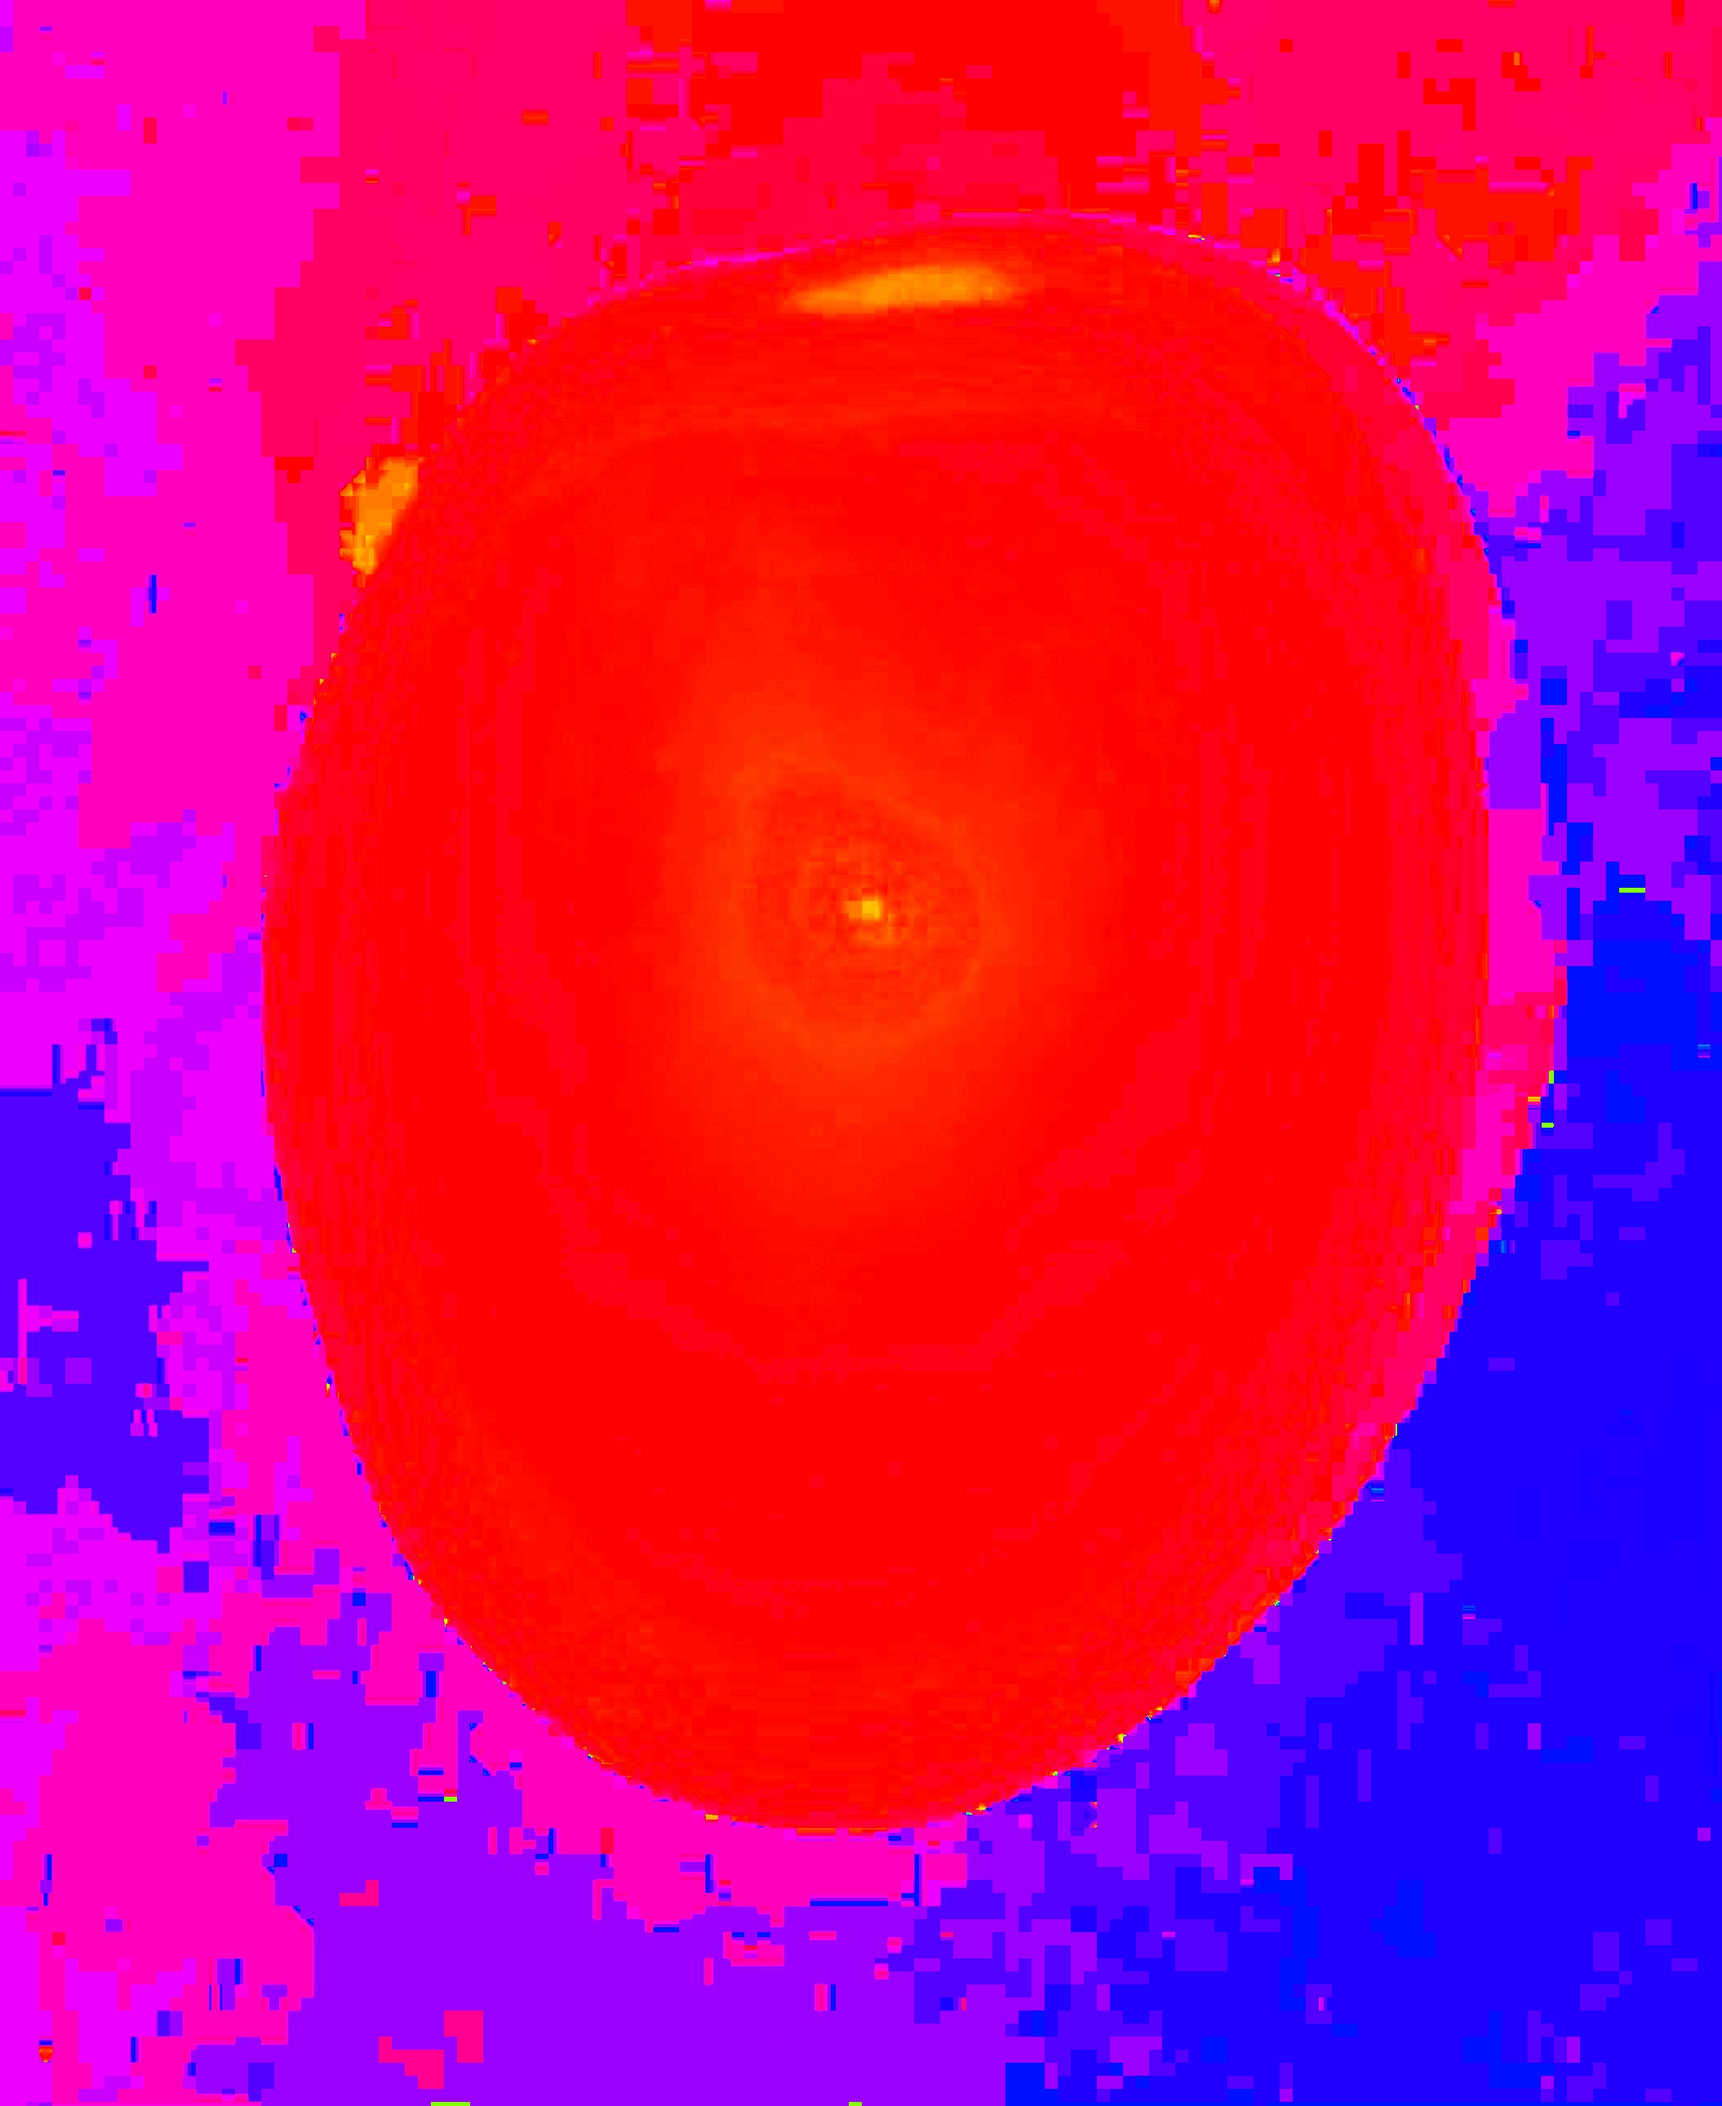
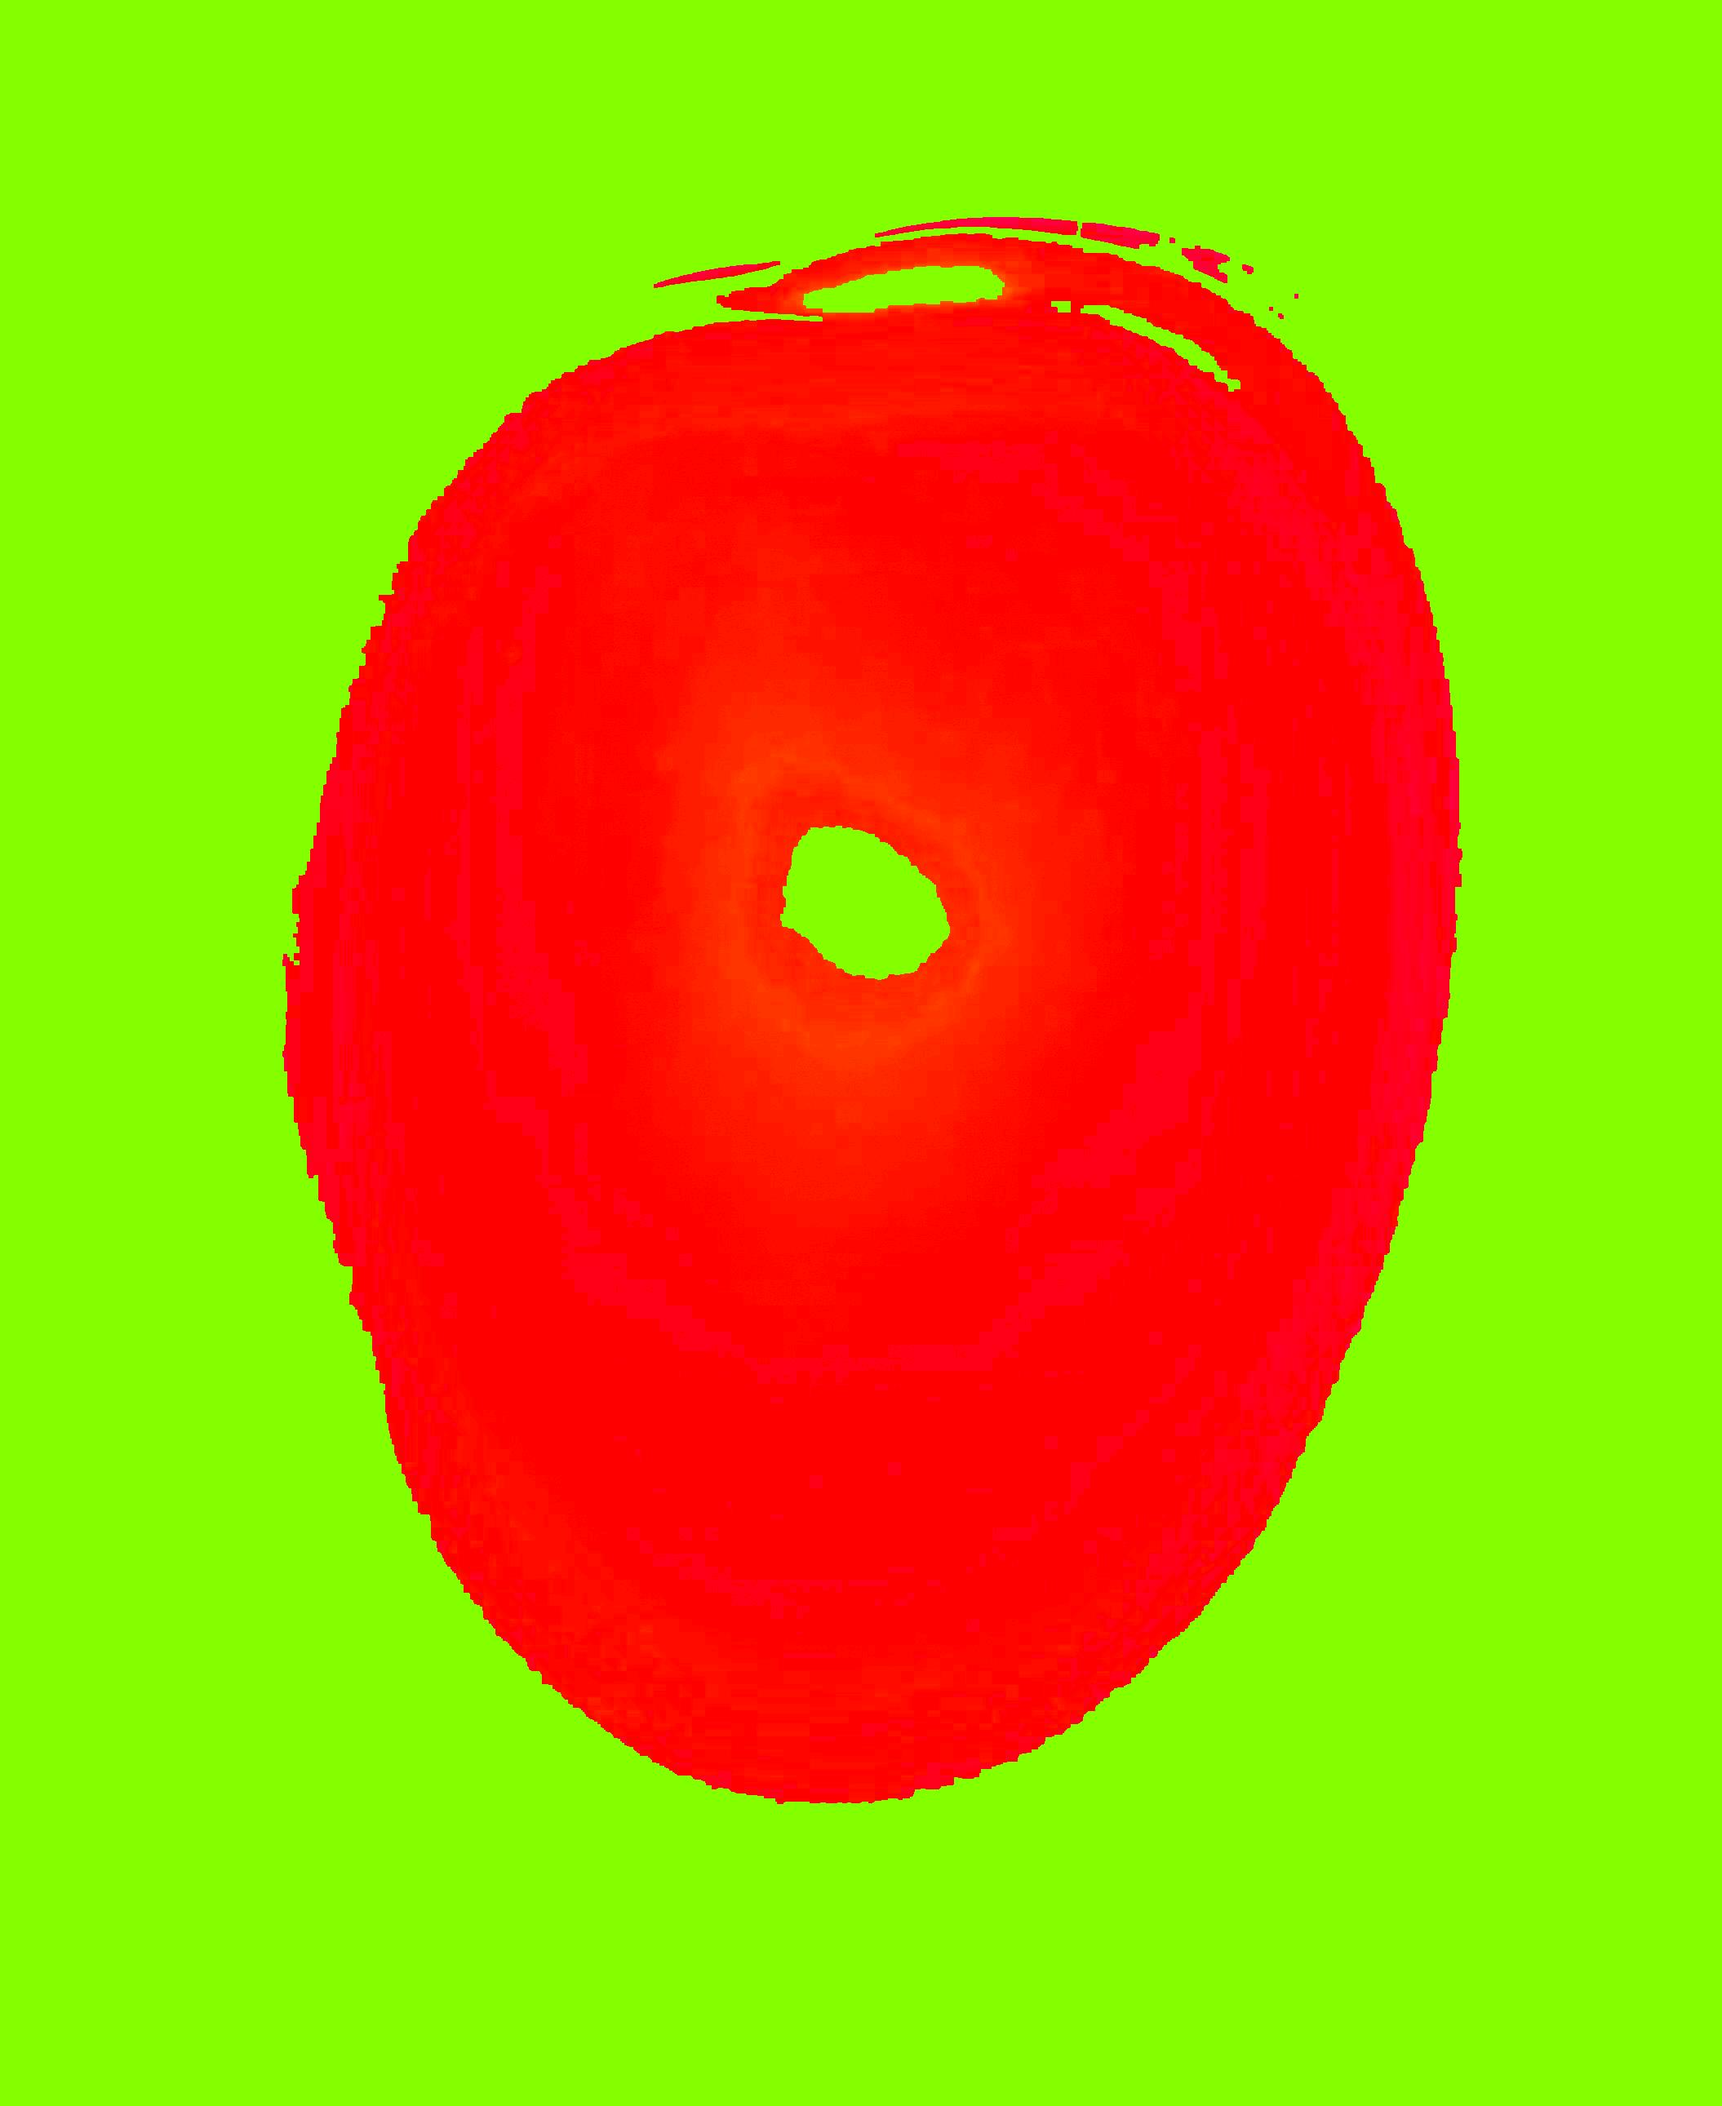
update

diff --git a/citra/8bit_konstant.py b/citra/8bit_konstant.py
@@ -1,0 +1,80 @@
+import cv2
+import numpy as np
+import matplotlib.pyplot as plt
+
+# === 1. BACA CITRA ===
+img = cv2.imread("tomat.jpg")
+img_rgb = cv2.cvtColor(img, cv2.COLOR_BGR2RGB)
+hsv = cv2.cvtColor(img, cv2.COLOR_BGR2HSV)
+
+# === 2. SEGMENTASI OBJEK TOMAT ===
+lower_red1 = np.array([0, 100, 50])
+upper_red1 = np.array([10, 255, 255])
+lower_red2 = np.array([170, 100, 50])
+upper_red2 = np.array([180, 255, 255])
+
+mask1 = cv2.inRange(hsv, lower_red1, upper_red1)
+mask2 = cv2.inRange(hsv, lower_red2, upper_red2)
+mask = mask1 + mask2
+
+# Bersihkan noise
+kernel = np.ones((5, 5), np.uint8)
+mask = cv2.morphologyEx(mask, cv2.MORPH_CLOSE, kernel)
+mask = cv2.morphologyEx(mask, cv2.MORPH_OPEN, kernel)
+
+# Terapkan mask ke citra asli
+segmented_rgb = cv2.bitwise_and(img_rgb, img_rgb, mask=mask)
+
+# === 3. KONVERSI KE HSI ===
+def rgb_to_hsi(image):
+    image = image.astype(np.float32) / 255.0
+    R, G, B = image[:, :, 0], image[:, :, 1], image[:, :, 2]
+    I = (R + G + B) / 3
+    min_RGB = np.minimum(np.minimum(R, G), B)
+    S = 1 - (3 / (R + G + B + 1e-6)) * min_RGB  
+    num = 0.5 * ((R - G) + (R - B))
+    denom = np.sqrt((R - G) ** 2 + (R - B) * (G - B)) + 1e-6
+    theta = np.arccos(num / denom)
+    H = np.degrees(theta)
+    H[B > G] = 360 - H[B > G]
+    H = H / 360  
+    return np.stack([H, S, I], axis=-1)
+
+hsi_img = rgb_to_hsi(segmented_rgb)
+H, S, I = hsi_img[:, :, 0], hsi_img[:, :, 1], hsi_img[:, :, 2]
+
+# === 4. PILIH 8 PIXEL KONSTAN ===
+selected_pixels = np.array([
+    [1930, 1344],
+    [975, 611],
+    [1595, 1148],
+    [1728, 1559],
+    [1995, 763],
+    [1660, 1343],
+    [1503, 523],
+    [387, 1136]
+])
+
+# === 5. TAMPILKAN PIXEL DI CITRA RGB DAN HSI ===
+fig, ax = plt.subplots(1, 4, figsize=(20, 5))
+ax[0].imshow(segmented_rgb)
+ax[0].set_title("Citra RGB")
+ax[1].imshow(H, cmap="hsv")
+ax[1].set_title("Komponen Hue")
+ax[2].imshow(S, cmap="gray")
+ax[2].set_title("Komponen Saturation")
+ax[3].imshow(I, cmap="gray")
+ax[3].set_title("Komponen Intensity")
+
+for (y, x) in selected_pixels:
+    for a in ax:
+        a.scatter(x, y, facecolors='none', s=50, edgecolors='green')
+
+for idx, (y, x) in enumerate(selected_pixels):
+    hue_value = H[y, x] # Konversi ke derajat
+    s_value = S[y,x]
+    i_value = I[y,x]
+    rgb_value = segmented_rgb[y, x]  # Ambil nilai RGB
+    print(f"Pixel {idx+1}: Posisi ({x}, {y}), RGB = {rgb_value}, Hue = {hue_value:.4f}, S = {s_value:.4f}, I={i_value:.4f}")
+
+plt.show()

diff --git a/citra/morfologi.py b/citra/morfologi.py
@@ -1,0 +1,64 @@
+import cv2
+import numpy as np
+from matplotlib import pyplot as plt
+
+def process_image(image_path):
+    # Baca gambar
+    image = cv2.imread(image_path)
+    image_rgb = cv2.cvtColor(image, cv2.COLOR_BGR2RGB)
+    
+    # Konversi ke grayscale
+    gray = cv2.cvtColor(image, cv2.COLOR_RGB2GRAY)
+    
+    # Konversi ke biner
+    _, binary = cv2.threshold(gray, 0, 255, cv2.THRESH_BINARY + cv2.THRESH_OTSU)
+    
+    # Operasi morfologi
+    kernel = np.ones((5, 5), np.uint8)
+    morph = cv2.morphologyEx(binary, cv2.MORPH_CLOSE, kernel)
+    
+    # Segmentasi menggunakan mask
+    segmented = cv2.bitwise_and(image_rgb, image_rgb, mask=morph)
+    
+    # Buat gambar dengan latar belakang transparan
+    alpha = np.where(morph > 0, 255, 0).astype(np.uint8)
+    image_rgba = np.dstack((image_rgb, alpha))
+    
+    # Buat gambar dengan latar belakang hitam dan hanya objek yang tampil
+    segmented_black_bg = np.zeros_like(image_rgb)
+    segmented_black_bg[morph > 0] = image_rgb[morph > 0]
+    
+    # Plot hasil
+    fig, axs = plt.subplots(2, 3, figsize=(10, 7))
+    axs[0, 0].imshow(image_rgb)
+    axs[0, 0].set_title("RGB")
+    axs[0, 0].axis("off")
+    
+    axs[0, 1].imshow(gray, cmap="gray")
+    axs[0, 1].set_title("Grayscale")
+    axs[0, 1].axis("off")
+    
+    axs[0, 2].imshow(binary, cmap="gray")
+    axs[0, 2].set_title("Binary")
+    axs[0, 2].axis("off")
+    
+    axs[1, 1].imshow(morph, cmap="gray")
+    axs[1, 1].set_title("Morfologi")
+    axs[1, 1].axis("off")
+    
+    axs[1, 0].imshow(segmented_black_bg)
+    axs[1, 0].set_title("Segmentasi Objek")
+    axs[1, 0].axis("off")
+    
+    axs[1, 2].imshow(image_rgba)
+    axs[1, 2].set_title("Remove BG")
+    axs[1, 2].axis("off")
+    
+    plt.tight_layout()
+    plt.show()
+
+# Path gambar
+image_path = "tomat.jpg"
+
+# Proses gambar
+process_image(image_path)

diff --git a/citra/rgb_hsi.py b/citra/rgb_hsi.py
@@ -1,0 +1,49 @@
+import numpy as np
+
+def rgb_to_hsi(R, G, B):
+    # Normalisasi RGB ke [0,1]
+    R, G, B = R / 255.0, G / 255.0, B / 255.0
+    print(f"R:{R:.4f}")
+    print(f"G:{G:.4f}")
+    print(f"B:{B:.4f}")
+    print(f"hasil : {(R+B+G)}")
+    
+    # Hitung Intensitas (I)
+    I = (R + G + B) / 3
+    
+    # Hitung Saturasi (S)
+    min_RGB = min(R, G, B)
+    if R + G + B == 0:
+        S = 0
+    else:
+        S = 1 - (3 * min_RGB) / (R + G + B)
+        print("min",(3 * min_RGB) / (R + G + B))
+    
+    # Hitung Hue (H)
+    num = 0.5 * ((R - G) + (R - B))
+    denom = np.sqrt((R - G)**2 + (R - B) * (G - B)) + 1e-6  # Tambah epsilon untuk hindari pembagian nol
+    theta = np.arccos(num / denom)
+    
+    if B > G:
+        H = 360 - np.degrees(theta)
+    else:
+        H = np.degrees(theta)
+    
+    print(f"cos -1:{np.arccos(0.9981)}")
+    print(f"H:{np.degrees(np.arccos(0.9981))}")
+    
+    # Normalisasi Hue ke [0,1]
+    H /= 360.0
+    
+    return H, S, I
+
+# Input RGB
+R, G, B = 94, 4, 3
+H, S, I = rgb_to_hsi(R, G, B)
+
+# Cetak hasil
+print(f"RGB ({R}, {G}, {B}) ke HSI:")
+
+print(f"Hue: {H:.4f} (dalam rentang 0-1)")
+print(f"Saturation: {S:.4f}")
+print(f"Intensity: {I:.4f}")

diff --git a/citra/8pixel.py b/citra/8pixel.py
@@ -60,8 +60,9 @@ selected_pixels = pixel_indices[np.random.choice(len(pixel_indices), 8, replace=
 
 print("8 Pixel Acak dan Nilai Hue-nya:")
 for idx, (y, x) in enumerate(selected_pixels):
-    hue_value = H[y, x] * 360  # Konversi ke derajat
-    print(f"Pixel {idx+1}: Posisi ({x}, {y}), Hue = {hue_value:.2f} derajat")
+    hue_value = H[y, x] # Konversi ke derajat
+    rgb_value = segmented_rgb[y, x]  # Ambil nilai RGB
+    print(f"Pixel {idx+1}: Posisi ({x}, {y}), RGB = {rgb_value}, Hue = {hue_value:.2f}")
 
 # Tandai pixel pada gambar Hue
 fig, ax = plt.subplots()

diff --git a/citra/cos.py b/citra/cos.py
@@ -1,0 +1,5 @@
+import numpy as np
+
+theta_rad = np.arccos(0.9980)  # 1.047 radian
+theta_deg = np.degrees(theta_rad)  # 60 derajat
+print(theta_deg/360)  # Output: 60.0
